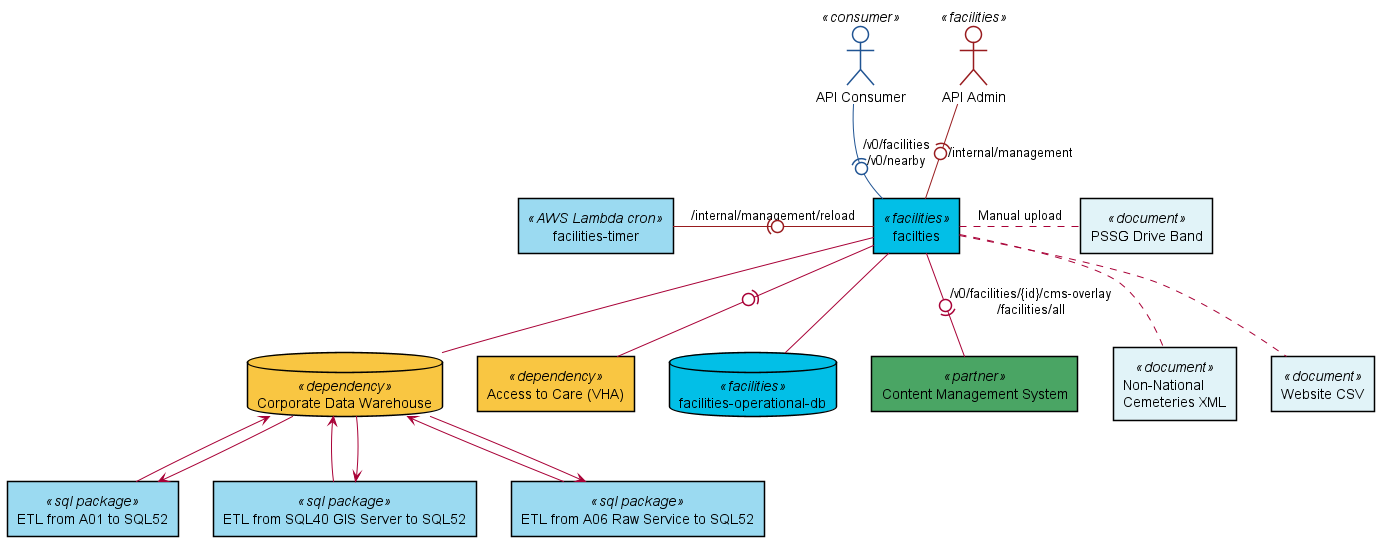
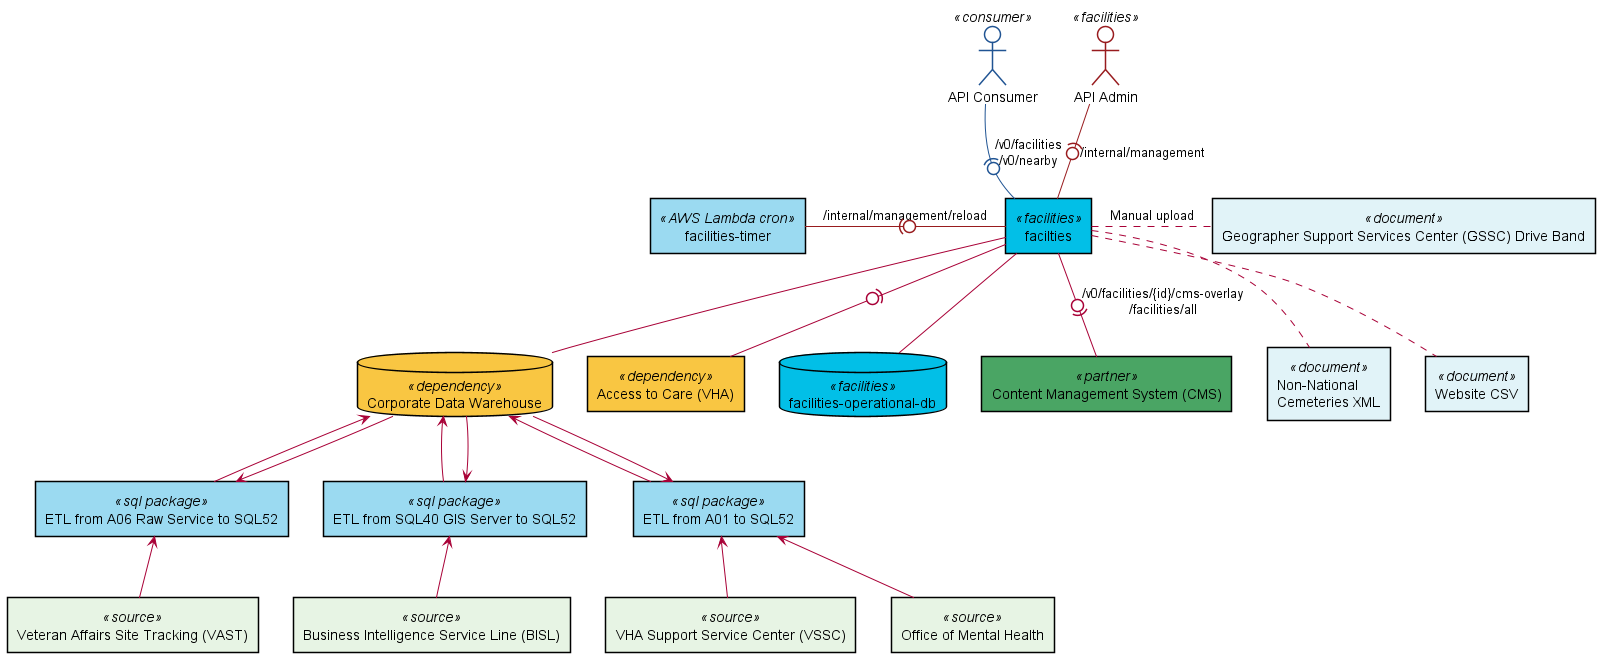
Updated README descriptions and diagrams with additional source details.

diff --git a/README.md b/README.md
@@ -27,27 +27,26 @@ OpenAPI documentation on the
   through the facilities collection process.
   Operating status and extended services may be updated at any time by CMS.
   Drive time band data is refreshed on an as-needed basis.
-* `facilities-timer` is a AWS Lambda Cron pod that fires nightly to trigger the facilities
+* `facilities-timer` is a Jenkins Job (Agent-J) that fires nightly to trigger the facilities
   collection/data reload process.
-* `Access to Care` provides
+* `Access to Care (ATC)` provides
   [wait times](https://www.accesstocare.va.gov/atcapis/v1.1/patientwaittimes) and
   [satisfaction scores](https://www.accesstopwt.va.gov/Shep/getRawData?location=*)
   for various services offered by VA health facilities.
-  This data is aggregated during facilities collection.
-* `Cemetery XML` is an externally-maintained
-  [XML document](https://www.cem.va.gov/cems/cems.xml)
-  that provides information about non-national cemeteries that are not managed by the VA.
-  This data is aggregated during facilities collection.
+  This data is aggregated during the nightly facilities collection.
+* `Cemetery XML` are externally-maintained XML Documents that provides information about [national cemeteries](https://www.cem.va.gov/cems/national.xml)
+  as well as [non-national cemeteries](https://www.cem.va.gov/cems/cems.xml) that are not managed by the VA.
+  This data is aggregated during the nightly facilities collection.
 * `Website CSV` is a
   [CSV document](facilities/src/main/resources/websites.csv)
-  of facility website URLS, maintained in this repository.
+  of facility website URLs, maintained in this repository.
   This data is aggregated during facilities collection to augment the _live_ sources.
-* `Corporate Data Warehouse` undergoes a nightly ETL process to transfer various data resources to the _SQL52_ server, where it is consumed during facilities collection. Namely:
-    - Mental Health, Clinical Services, and Stop Codes from the _A01_ server.
-    - National Cemeteries and Benefit Centers from the _NCA VBA SQL40 GIS_ server.
-    - Health facilities and Veteran centers from the _A06_ server.
-* `PSSG Drive Band` documents are periodically uploaded to the `facilities`
-  application through management APIs.
+* `Corporate Data Warehouse (CDW)` undergoes a nightly ETL process to transfer various data resources to the _SQL52_ server, where it is consumed during facilities collection. Namely:
+    - Mental Health, Clinical Services, and Stop Codes from the _A01_ server, sourced from the VHA Support Center (VSSC) and Office of Mental Health.
+    - National Cemeteries and Benefit Centers from the _NCA VBA SQL40 GIS_ server, sourced from the  Geospatial Data Library (GeoBISL).
+    - Health facilities and Veteran centers from the _A06_ server, sourced from [Veteran Affairs Site Tracking (VAST)](https://reports.vssc.med.va.gov/ReportServer/Pages/ReportViewer.aspx?%2fApps%2fVAST%2fProduction%2fVAST_Snapshot_2&rs:Command=Render) (VA Network Internal).
+* `Geographer Support Services Center (GSSC) Drive Band` documents are periodically uploaded to the `facilities`
+  application through management APIs.  These are updated on a monthly basis.
 
 # Data Flow
 ![Data Flow](src/plantuml/data-flow.png)
@@ -56,16 +55,31 @@ OpenAPI documentation on the
 * The facilities collection process aggregates data from other services, databases, or manually managed
   files. Drive-time band and operating status are not part of collection.
   Collection is an expensive process that is performed periodically.
-* `CMS` is both a consumer and a producer of information. `CMS` will periodically pull all
+* `Content Management System (CMS)` is both a consumer and a producer of information. `CMS` will periodically pull all
   facilities to automatically populate content pages in Drupal.
   Additionally, regional administrators of CMS data may change the operating status or extended service(s) at any time.
   This information is provided back to the Facilities API through a specialized CMS-dedicated
   endpoint. Operating status is stored in the operational database along side facility data.
 
+### Update Frequency for Data Sources
+Facilities collection occurs every 24 hours. This updates the local cache in `facilities-operational-db` with the most up-to-date data.
+* CDW, ATC, the Cemeteries XML, and the Website CSV are updated daily
+* Drive Time Bands are updated monthly
+* CMS data is updated on-demand by a data push triggered by the CMS platform
+
+### CDW Data Source Details
+Within CDW, the following databases/tables are read during facility collection:
+* Mental Health data is from `A01.[OMHSP_PERC_Share].[DOEx].[FieldDataEntry_MHPhone]`.
+* Clinical Services data and stop code data are from `A01.[VSSC_Out].[DOEx].[DST_ClinicalServices]`.
+* Facilities data is from `A06.[CDWWork].[Dim].[VAST]` which is populated from the VSSC SQL Server.
+* National Cemeteries data is from `SQL40.[BISL_GIS_SpatialData].[DOEx].[v_FacilityLocator_NCA]`.
+* Benefit Centers data is from `SQL40.[BISL_GIS_SpatialData].[DOEx].[v_FacilityLocator_VBA]`.
+
+
 # Local Development
 
 Refer to [health-apis-parent](https://github.com/department-of-veterans-affairs/health-apis-parent)
-for basic environment setup. (Java, Maven, Docker, etc.)
+for basic environment setup (e.g., Java, Maven, Docker, etc.).
 Execute `mvn clean install` to build all of the modules, then follow the local development
 instructions for [mock-services](facilities-mock-services/README.md#local-development),
 [local-db](facilities-local-db/README.md#local-development),
